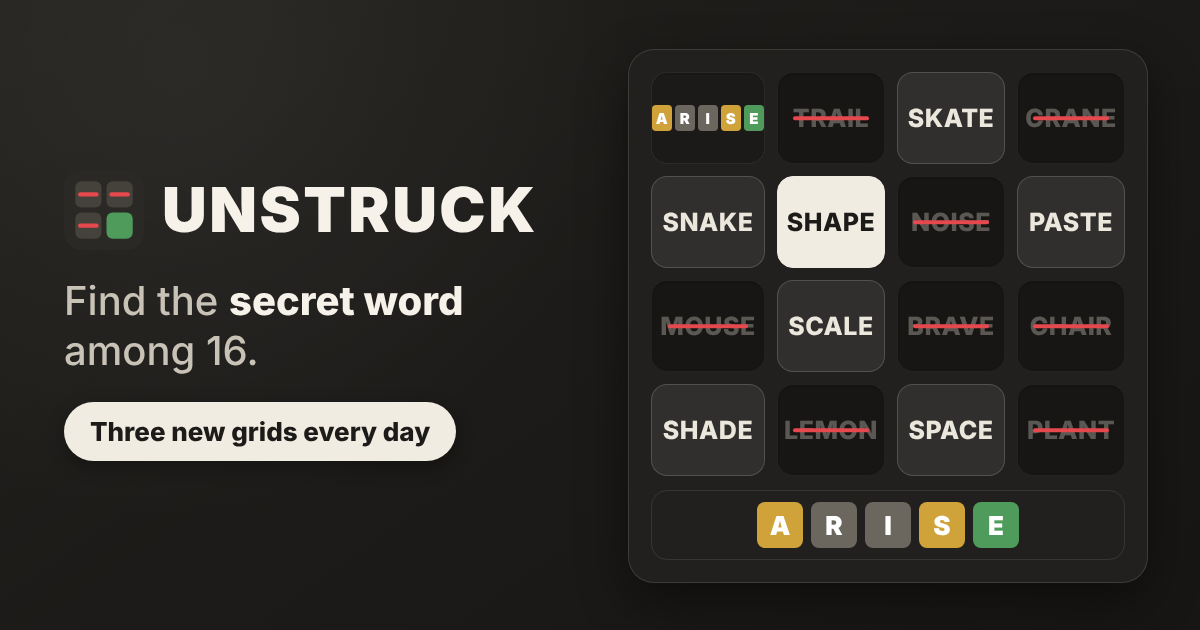
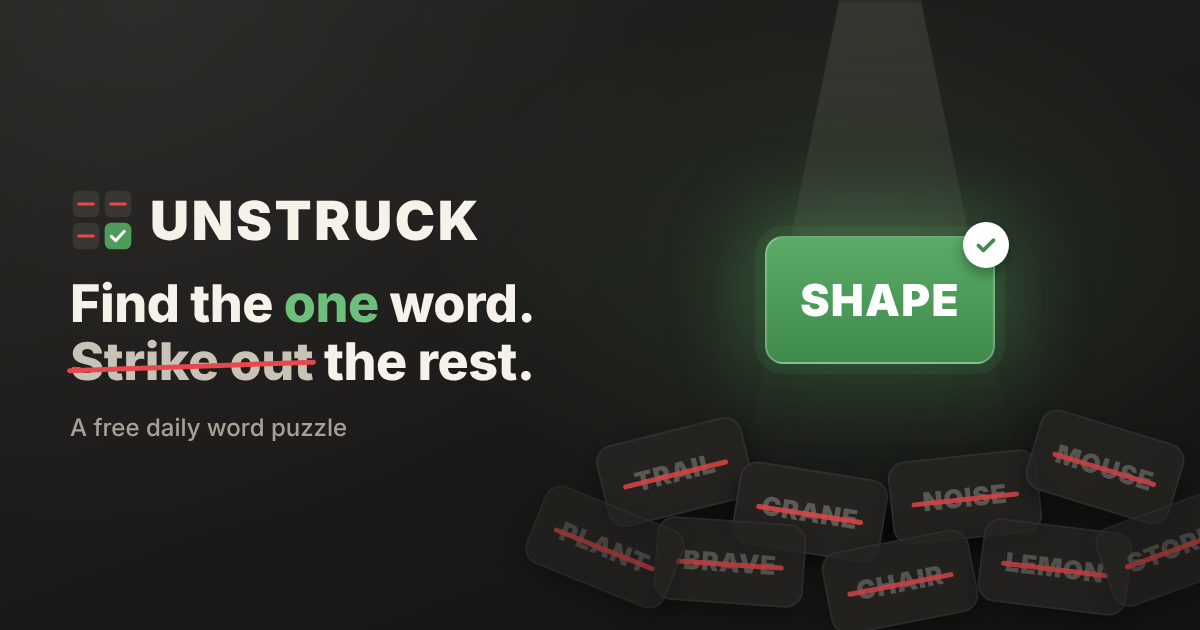
Unstruck: promo art: 'Find the one word. Strike out the rest.' as the link preview, plus a square version for posts
Claude-Session: https://claude.ai/code/session_01HEGZxhxveHQb2cC6LkWXCb

diff --git a/public/unstruck/index.html b/public/unstruck/index.html
@@ -20,7 +20,7 @@
   <meta property="og:image" content="og-image.png">
   <meta property="og:image:width" content="1200">
   <meta property="og:image:height" content="630">
-  <meta property="og:image:alt" content="Unstruck: a 4×4 grid of words, some struck out in red">
+  <meta property="og:image:alt" content="Unstruck: find the one word, strike out the rest. One green word stands, the others lie crossed out.">
   <meta name="twitter:card" content="summary_large_image">
   <meta name="twitter:title" content="Unstruck – a daily word puzzle">
   <meta name="twitter:description" content="Find the secret word among 16. Three new grids every day.">
